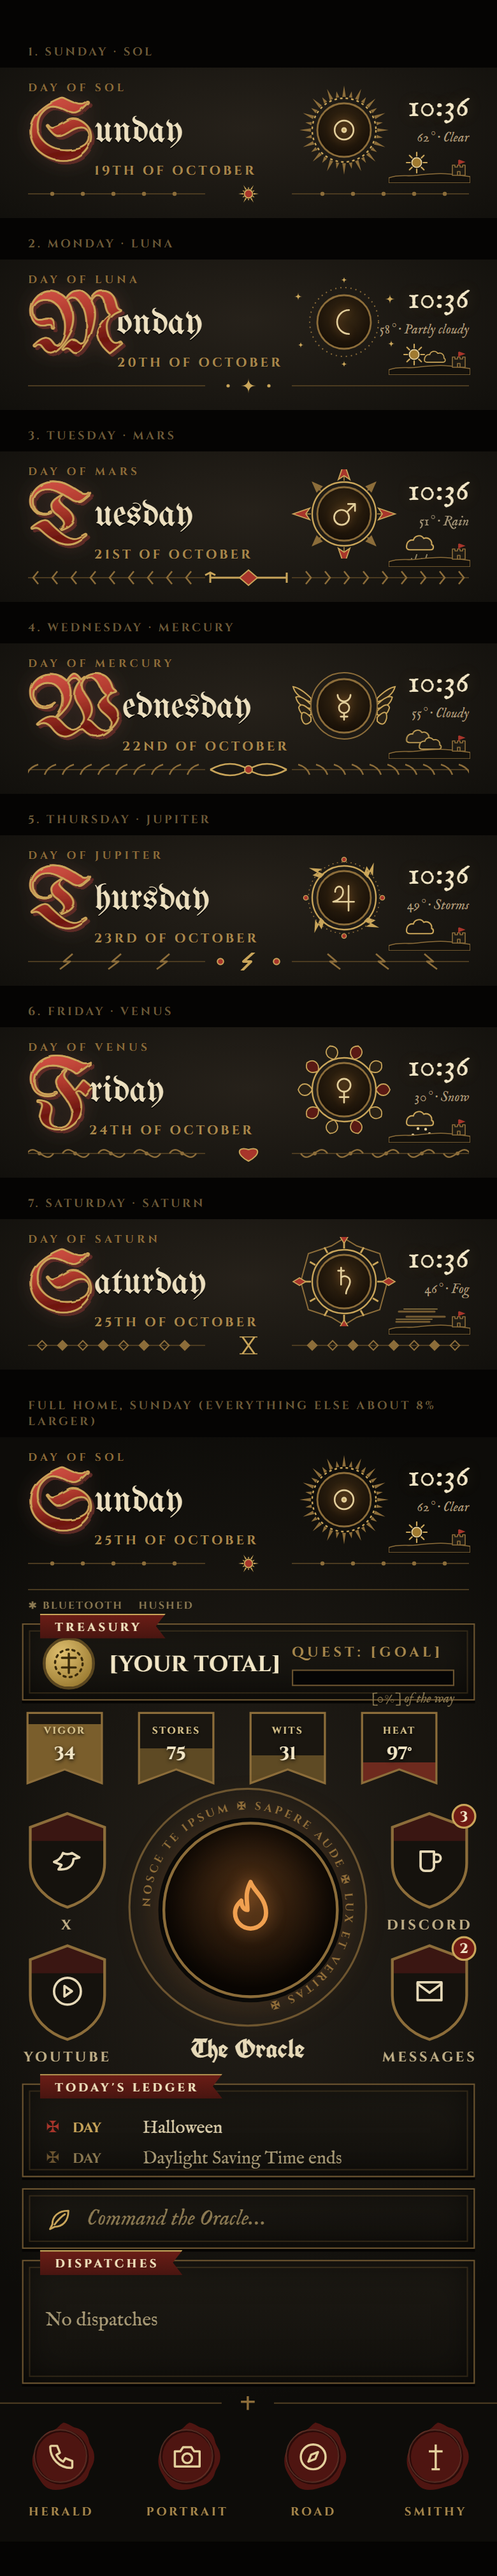
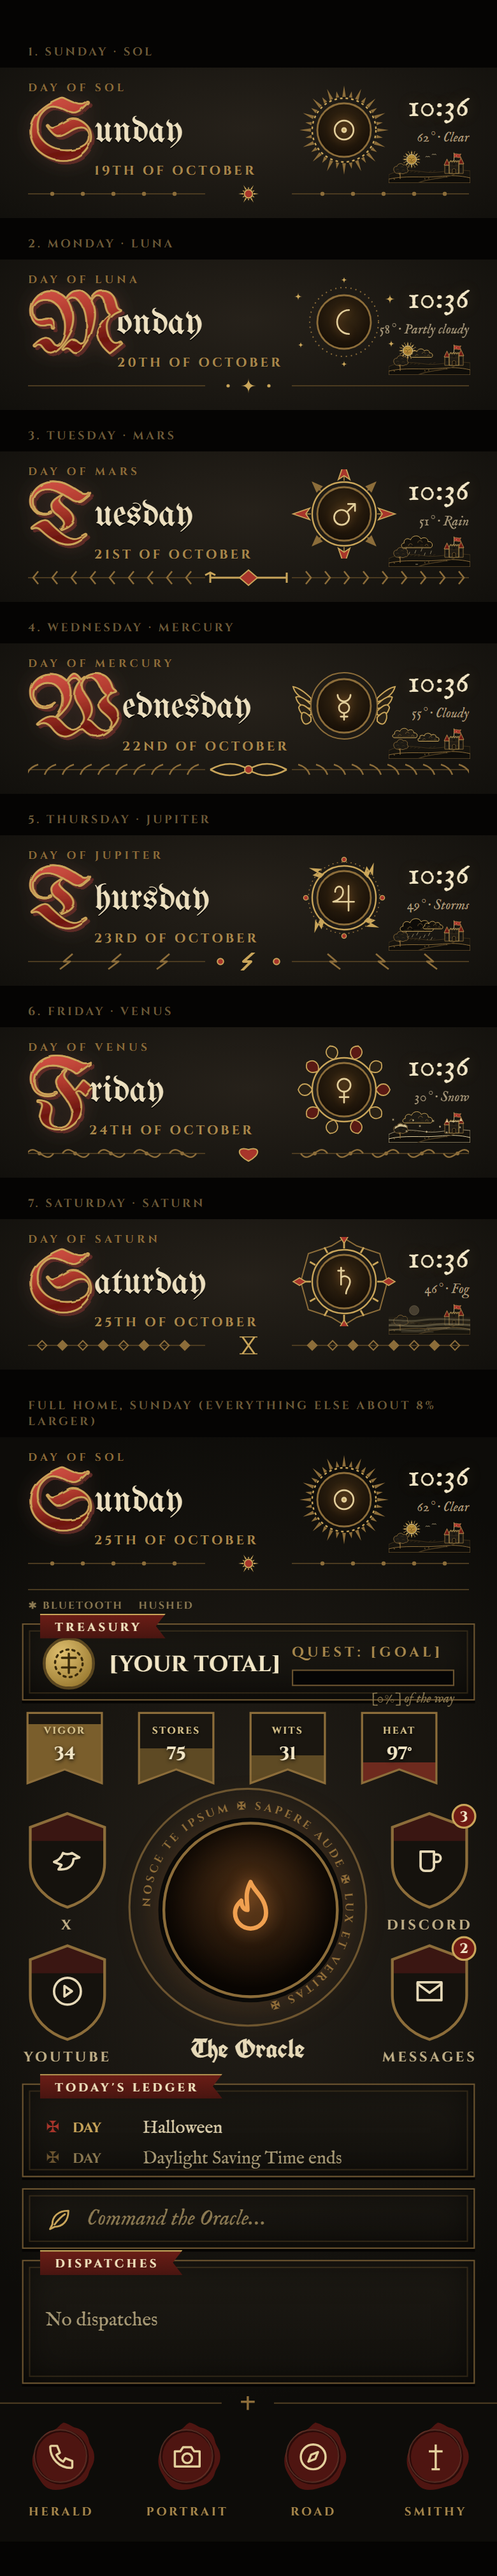
T4-header: detailed woodcut weather dioramas with stop-motion frames

diff --git a/docs/design/T4-weather.js b/docs/design/T4-weather.js
@@ -1,38 +1,114 @@
-/* T4 weather dioramas: 64x26 paper-cutout scenes, stop-motion (stepped) animation. Vector, drawn here. */
+/* T4 weather dioramas: a little woodcut landscape (hills, oak, castle with banner) whose sky shows the weather.
+   Drawn on a 128x52 grid, shown at 64x26 in the header. Stop-motion: every moving part is 2-6 hand-drawn
+   frames swapped in hard steps (no smooth tweening), like paper cut-outs on a table. Vector only. */
 (function(){
-var G='#c9a55a',GD='#8c6d3a',RD='#a8352b',GL='#e3cf9c',DK='#1d1a14';
-var css='.wx .rays,.wx .flake,.wx .tw,.wx .tw2{transform-box:fill-box;transform-origin:center}'+
-'.wx .rays{animation:wxr 1.2s steps(1,end) infinite}@keyframes wxr{0%{transform:rotate(0)}33%{transform:rotate(9deg)}66%{transform:rotate(-7deg)}}'+
-'.wx .drift{animation:wxd 2.4s steps(1,end) infinite}@keyframes wxd{0%{transform:translateX(0)}25%{transform:translateX(2px)}50%{transform:translateX(4px)}75%{transform:translateX(2px)}}'+
-'.wx .drift2{animation:wxd2 2.4s steps(1,end) infinite}@keyframes wxd2{0%{transform:translateX(0)}25%{transform:translateX(-2px)}50%{transform:translateX(-4px)}75%{transform:translateX(-2px)}}'+
-'.wx .fall{animation:wxf .9s steps(1,end) infinite}@keyframes wxf{0%{transform:translateY(0)}33%{transform:translateY(3px)}66%{transform:translateY(6px)}}'+
-'.wx .fall2{animation:wxf .9s steps(1,end) infinite;animation-delay:-.45s}'+
-'.wx .flake{animation:wxs 1.5s steps(1,end) infinite}@keyframes wxs{0%{transform:translate(0,0)}25%{transform:translate(1px,2px)}50%{transform:translate(-1px,4px)}75%{transform:translate(1px,6px)}}'+
-'.wx .flash{animation:wxb 2.4s steps(1,end) infinite}@keyframes wxb{0%{opacity:0}60%{opacity:1}72%{opacity:0}80%{opacity:1}88%{opacity:0}}'+
-'.wx .tw{animation:wxt 1.6s steps(1,end) infinite}@keyframes wxt{0%{opacity:1}50%{opacity:.15}}'+
-'.wx .tw2{animation:wxt 1.6s steps(1,end) infinite;animation-delay:-.8s}'+
-'.wx .fog{animation:wxd 3s steps(1,end) infinite}.wx .fog2{animation:wxd2 3s steps(1,end) infinite}';
-function cloud(x,y,s,fill,cls){return '<g transform="translate('+x+' '+y+')"><g class="'+(cls||'')+'"><path transform="scale('+s+')" d="M0 7C0 4 2 2.6 4 3C4.6 0.4 8.4 -0.6 10 2C12.6 1 15 3 14.6 5.6C16 6 16 8.6 14 8.6H2C.8 8.6 0 8 0 7Z" fill="'+fill+'" stroke="'+G+'" stroke-width=".8" stroke-linejoin="round"/></g></g>'}
-function sun(x,y,cls){var r='';for(var i=0;i<8;i++){r+='<path d="M0 -8V-5.2" stroke="'+G+'" stroke-width="1.1" stroke-linecap="round" transform="rotate('+i*45+')"/>'}
- return '<g transform="translate('+x+' '+y+')"><g class="rays">'+r+'</g><circle r="3.8" fill="#a07a30" stroke="'+GL+'" stroke-width=".9"/></g>'}
-function moon(x,y){return '<path transform="translate('+x+' '+y+')" d="M2 -6A6 6 0 1 0 2 6A4.6 4.6 0 1 1 2 -6Z" fill="'+GL+'" fill-opacity=".9" stroke="'+G+'" stroke-width=".6"/>'}
-function star(x,y,c){return '<path class="'+c+'" transform="translate('+x+' '+y+')" d="M0 -2Q0 0 2 0Q0 0 0 2Q0 0 -2 0Q0 0 0 -2Z" fill="'+G+'"/>'}
-function drops(n,cls){var s='';for(var i=0;i<n;i++){s+='<path class="'+(i%2?'fall':'fall2')+'" d="M'+(18+i*4)+' 13.5l-1 3" stroke="#a89a76" stroke-width="1" stroke-linecap="round" opacity=".85"/>'}return s}
-function flakes(){var s='';[[18,14],[23,15],[28,13.5],[33,15]].forEach(function(p,i){s+='<g class="flake" style="animation-delay:-'+(i*.37)+'s"><circle cx="'+p[0]+'" cy="'+p[1]+'" r="1.1" fill="'+GL+'"/></g>'});return s}
-/* ground + tiny castle silhouette: the setting for every scene */
-var GROUND='<path d="M0 26V22C8 19 14 21 22 20S40 18 48 19L64 21V26Z" fill="#14110c" stroke="'+GD+'" stroke-width=".8"/>'+
- '<path d="M50 20V12H52V13.5H54V12H56V13.5H58V12H60V20Z M54 20V17H56V20Z" fill="#1d1a14" stroke="'+GD+'" stroke-width=".8" stroke-linejoin="round"/><path d="M55 12V8M55 8L59 9.5L55 11" stroke="'+RD+'" stroke-width=".9" fill="'+RD+'"/>';
+var G='#c9a55a',GD='#8c6d3a',GDD='#4a3a20',GL='#e3cf9c',RD='#a8352b',RDD='#6e1a14',INK='#0c0a07',MUTE='#a89a76';
+
+/* frame swapper: frame k is visible during the k-th 1/n of the cycle */
+var css='';[2,3,4,6].forEach(function(n){css+='@keyframes wxf'+n+'{0%{opacity:1}'+(100/n).toFixed(3)+'%,100%{opacity:0}}'});
+function frames(list,dur){var n=list.length,s='';list.forEach(function(f,k){
+ var d=((n-k)%n)*dur/n;s+='<g style="animation:wxf'+n+' '+dur+'s steps(1,end) infinite;animation-delay:-'+d.toFixed(3)+'s">'+f+'</g>'});return s}
+
+/* ---------- landscape ---------- */
+function hills(snow){var e=snow?GL:GD,e2=snow?'#bfb08a':GDD;
+ return '<path d="M0 39C18 30 38 32 58 35S98 29 128 33V52H0Z" fill="#17140e" stroke="'+e2+'" stroke-width=".8"/>'+
+ '<path d="M34 35l3-1.4M40 35.4l3-1.2M46 35.8l3-1M64 34.6l3-1.2M70 33.8l3-1.2" stroke="'+GDD+'" stroke-width=".6" stroke-linecap="round"/>'+
+ '<path d="M0 46C24 40 52 44 76 42S110 40 128 44V52H0Z" fill="#0f0d09" stroke="'+e+'" stroke-width="1"/>'+
+ '<path d="M103 38C98 42 86 43 74 45S52 49 46 52" stroke="'+GDD+'" stroke-width="1.6" stroke-linecap="round"/>'+
+ '<path d="M56 46.5l.8-2 .8 2M62 45.6l.8-2 .8 2M90 43.4l.8-2 .8 2M8 47l.8-2 .8 2" stroke="'+GD+'" stroke-width=".6" stroke-linejoin="round"/>';
+}
+function tree(snow){
+ return '<path d="M18 45V34M18 39l-3-3M18 37l3-2.5" stroke="'+GD+'" stroke-width="1.4" stroke-linecap="round"/>'+
+ '<path d="M9 34C6 30 9 25 13 26C14 21 21 20 23 24C27 22 31 26 29 30C32 32 30 37 26 36C24 38 20 38 18 36C15 38 10 37 9 34Z" fill="#1d1a14" stroke="'+GD+'" stroke-width=".9" stroke-linejoin="round"/>'+
+ '<path d="M12 31q2-2 4 0M19 27q2-2 4 0M21 32q2-2 4 0M14 35q1.5-1.5 3 0" stroke="'+GDD+'" stroke-width=".6" stroke-linecap="round"/>'+
+ (snow?'<path d="M9.5 31C9 27 11.5 25.5 13.5 26.4C14.5 22 20.5 21 22.6 24.6C25.6 22.6 29.6 25.6 28.6 29C25 26.4 22 27.4 18.5 26.4C15 27.2 12 28.6 9.5 31Z" fill="'+GL+'" opacity=".9"/>':'');
+}
+function castle(win,snow){
+ var w=function(x,y){return '<rect x="'+x+'" y="'+y+'" width="1.4" height="3" rx=".7" fill="'+win+'"/>'};
+ return ''+
+ /* side towers with conical oxblood roofs */
+ '<path d="M88 37V24H95V37Z M110 37V22H117V37Z" fill="#1d1a14" stroke="'+GD+'" stroke-width=".9" stroke-linejoin="round"/>'+
+ '<path d="M87 24L91.5 14.5L96 24Z M109 22L113.5 12.5L118 22Z" fill="'+RDD+'" stroke="'+G+'" stroke-width=".8" stroke-linejoin="round"/>'+
+ '<path d="M89.2 21.5L91.5 17M111.2 19.5L113.5 15" stroke="'+RD+'" stroke-width=".6"/>'+
+ /* keep with crenellations */
+ '<path d="M95 37V19H96.6V17H98.6V19H100.4V17H102.4V19H104.2V17H106.2V19H108V17H110V37Z" fill="#221d15" stroke="'+G+'" stroke-width=".9" stroke-linejoin="round"/>'+
+ '<path d="M96 25H109M96 31H109" stroke="'+GDD+'" stroke-width=".5"/>'+
+ '<path d="M100 37V32A2.5 2.5 0 0 1 105 32V37Z" fill="'+INK+'" stroke="'+GD+'" stroke-width=".7"/>'+
+ '<path d="M100.8 33.5H104.2M100.8 35.2H104.2" stroke="'+GDD+'" stroke-width=".4"/>'+
+ w(101.8,21.5)+w(90.8,27)+w(112.8,25.5)+
+ (snow?'<path d="M89.2 20.8L91.5 15.6L93.8 20.8C92.6 19.8 90.4 19.8 89.2 20.8Z M111.2 18.8L113.5 13.6L115.8 18.8C114.6 17.8 112.4 17.8 111.2 18.8Z" fill="'+GL+'"/><path d="M95.3 18.8H110" stroke="'+GL+'" stroke-width="1"/>':'');
+}
+function banner(dur){
+ var pole='<path d="M102.5 17V5.5" stroke="'+GL+'" stroke-width=".8"/><circle cx="102.5" cy="5.2" r=".8" fill="'+G+'"/>';
+ var f=['M102.5 6.5C106 5 109.5 8 113.5 6.5L112 9.3L113.5 12C109.5 13.2 106 10.5 102.5 12Z',
+        'M102.5 6.5C106 8 109.5 5.2 113.5 7.2L111.8 9.6L113.5 12.2C109.5 10.6 106 13 102.5 12Z',
+        'M102.5 6.5C105.5 6 110.5 6.2 113 7.6L111.6 10L112.8 12.6C109.5 11.6 105.5 12.2 102.5 12Z'];
+ return pole+frames(f.map(function(d){return '<path d="'+d+'" fill="'+RD+'" stroke="'+G+'" stroke-width=".6" stroke-linejoin="round"/><path d="M105.5 8.6l1.4 1.4M106.9 8.6l-1.4 1.4" stroke="'+GL+'" stroke-width=".5"/>'}),dur||0.9);
+}
+function land(o){o=o||{};return hills(o.snow)+tree(o.snow)+castle(o.win||INK,o.snow)+banner(o.flag)}
+
+/* ---------- sky pieces ---------- */
+function sun(x,y,faint){
+ if(faint)return '<circle cx="'+x+'" cy="'+y+'" r="7.5" fill="'+GL+'" opacity=".22"/><circle cx="'+x+'" cy="'+y+'" r="7.5" stroke="'+GL+'" stroke-width=".6" opacity=".35"/>';
+ function rays(rot,sc){var s='';for(var i=0;i<16;i++){s+='<g transform="rotate('+(i*22.5+rot)+') scale('+sc+')">'+(i%2?
+   '<path d="M0 -8.6Q1.3 -10 0 -11.2Q-1.3 -12.4 0 -13.4" stroke="'+G+'" stroke-width=".8" stroke-linecap="round"/>':
+   '<path d="M-1.4 -8.6L0 -14.2L1.4 -8.6Z" fill="'+G+'"/>')+'</g>'}return s}
+ return '<g transform="translate('+x+' '+y+')">'+frames([rays(0,1),rays(4,1.05),rays(8,.97)],1.2)+
+ '<circle r="7.6" fill="#b8913c" stroke="'+GL+'" stroke-width="1"/><circle r="6.1" stroke="#8a6a22" stroke-width=".5"/>'+
+ '<path d="M-3.6 -1.4q1.1-1.1 2.2 0M1.4 -1.4q1.1-1.1 2.2 0M0 -.8V1.6H-.9M-2.4 3.1Q0 4.9 2.4 3.1" stroke="#4a2e0c" stroke-width=".7" stroke-linecap="round" stroke-linejoin="round"/>'+
+ '<circle cx="-3.6" cy="2" r=".9" fill="'+RD+'" opacity=".55"/><circle cx="3.6" cy="2" r=".9" fill="'+RD+'" opacity=".55"/></g>';
+}
+function moon(x,y){
+ return '<g transform="translate('+x+' '+y+')"><path d="M3 -8.5A8.5 8.5 0 1 0 3 8.5A10 10 0 0 1 3 -8.5Z" fill="'+GL+'" stroke="'+G+'" stroke-width=".8"/>'+
+ '<path d="M-5.2 -2.2q1.3 1 2.6 0M-3.4 2.6q-1 1.2-2.4 1" stroke="'+GD+'" stroke-width=".7" stroke-linecap="round"/>'+
+ '</g>';
+}
+function star(x,y,r){return '<path transform="translate('+x+' '+y+')" d="M0 -'+r+'Q0 0 '+r+' 0Q0 0 0 '+r+'Q0 0 -'+r+' 0Q0 0 0 -'+r+'Z" fill="'+GL+'"/>'}
+function cloud(x,y,s,fill,shade){
+ return '<g transform="translate('+x+' '+y+') scale('+s+')">'+
+ '<path d="M3 16C-1 16 -1 10.4 3.4 10.2C2.4 5 8.4 3 11.4 6.2C13.4 0 22.4 -.4 24.4 5C27.6 2 33.6 3.4 33.4 8.4C38.6 7.6 40.6 13.4 37 16Z" fill="'+fill+'" stroke="'+G+'" stroke-width="'+(1/s).toFixed(2)+'" stroke-linejoin="round"/>'+
+ '<path d="M9 13.4C9 10.4 13 10 13.6 12.4M20.6 9.6C20.4 6.4 25.6 6 26 9M29.6 13.4C30 11 33.6 11.2 33.4 13.4" stroke="'+GD+'" stroke-width="'+(.7/s).toFixed(2)+'" stroke-linecap="round"/>'+
+ (shade?'<path d="M5 14.6H13M16 14.6H28M30 14.6H35M8 12.6H10M24 12.6H27" stroke="'+GDD+'" stroke-width="'+(.6/s).toFixed(2)+'" stroke-linecap="round"/>':'')+'</g>';
+}
+function drifting(fn,dx,dur){return frames([0,dx/2,dx,dx/2].map(function(o){return '<g transform="translate('+o+' 0)">'+fn()+'</g>'}),dur)}
+function birds(){var f=[];for(var k=0;k<4;k++){var up=k%2==0,x=k*1.6;
+ var b=function(bx,by){return up?'<path d="M'+bx+' '+by+'q1.6-1.8 3.2 0q1.6-1.8 3.2 0" stroke="'+GL+'" stroke-width=".7" stroke-linecap="round"/>':
+  '<path d="M'+bx+' '+(by-1)+'q1.6 1.6 3.2 1q1.6.6 3.2-1" stroke="'+GL+'" stroke-width=".7" stroke-linecap="round"/>'};
+ f.push(b(58+x,11)+b(68+x,7.5))}return frames(f,1.6)}
+function rain(n,slant,top,bot){var f=[];for(var k=0;k<3;k++){var s='';for(var j=0;j<n;j++){
+ var x=28+j*(44/n)+k*1.4,y=top+((j*7+k*5)%(bot-top-5));
+ s+='<path d="M'+x.toFixed(1)+' '+y+'l'+slant+' 4.5" stroke="'+MUTE+'" stroke-width=".8" stroke-linecap="round"/>'}f.push(s)}return frames(f,.6)}
+function ripples(){return frames(['<ellipse cx="44" cy="48" rx="2" ry=".6" stroke="'+MUTE+'" stroke-width=".5"/>',
+ '<ellipse cx="60" cy="46.6" rx="2" ry=".6" stroke="'+MUTE+'" stroke-width=".5"/><ellipse cx="44" cy="48" rx="3.2" ry=".9" stroke="'+MUTE+'" stroke-width=".4" opacity=".6"/>',
+ '<ellipse cx="34" cy="48.6" rx="2" ry=".6" stroke="'+MUTE+'" stroke-width=".5"/><ellipse cx="60" cy="46.6" rx="3.2" ry=".9" stroke="'+MUTE+'" stroke-width=".4" opacity=".6"/>'],.9)}
+function snowfall(){var f=[];for(var k=0;k<4;k++){var s='';for(var j=0;j<11;j++){
+ var x=8+j*10.5+((j*3+k)%3)-1,y=16+((j*9+k*4)%26);
+ s+='<path transform="translate('+x+' '+y+')" d="M0 -1.4V1.4M-1.2 -.7L1.2 .7M-1.2 .7L1.2 -.7" stroke="'+GL+'" stroke-width=".55" stroke-linecap="round"/>'}f.push(s)}return frames(f,1.6)}
+function fog(){var f=[];for(var k=0;k<3;k++){var o=k*3;f.push(
+ '<path d="M'+(-12+o)+' 30C8 27 28 33 48 30S88 27 140 30" stroke="'+MUTE+'" stroke-width="3.2" stroke-linecap="round" opacity=".32"/>'+
+ '<path d="M'+(-6-o)+' 38C14 35 36 41 58 38S100 35 140 38" stroke="'+MUTE+'" stroke-width="3.6" stroke-linecap="round" opacity=".38"/>'+
+ '<path d="M'+(-10+o)+' 45C10 42 34 48 56 45S98 42 140 45" stroke="'+MUTE+'" stroke-width="3" stroke-linecap="round" opacity=".3"/>'+
+ '<path d="M'+(4+o)+' 34H40M'+(60-o)+' 41H96M'+(20+o)+' 48H70" stroke="'+GL+'" stroke-width=".6" stroke-linecap="round" opacity=".45"/>')}
+ return '<rect y="24" width="128" height="28" fill="#2a2418" opacity=".35"/>'+frames(f,1.8)}
+function bolt(){return '<path d="M52 20L46 30.5H51L44.5 42L57 27.5H52L56.5 20Z" fill="'+RD+'" stroke="'+GL+'" stroke-width=".8" stroke-linejoin="round"/>'}
+
 var SCENE={
- clear:function(){return sun(22,10)},
- clearnight:function(){return moon(22,10)+star(34,6,'tw')+star(12,7,'tw2')+star(40,13,'tw')+star(8,15,'tw')},
- partly:function(){return sun(20,10)+cloud(24,7,1.05,DK,'drift')},
- cloudy:function(){return cloud(10,3,1.2,'#26211a','drift')+cloud(28,9,1.1,DK,'drift2')},
- rain:function(){return cloud(14,1,1.35,'#26211a')+drops(5)},
- storm:function(){return cloud(14,1,1.35,'#1a1612')+'<path class="flash" d="M25 11L21 16H24L22 22L28 15H25L27 11Z" fill="'+RD+'" stroke="'+G+'" stroke-width=".7" stroke-linejoin="round"/>'},
- snow:function(){return cloud(14,1,1.35,'#26211a')+flakes()},
- fog:function(){return '<path class="fog" d="M6 8H34M12 12H42M4 16H30" stroke="'+GD+'" stroke-width="1.6" stroke-linecap="round" opacity=".8"/><path class="fog2" d="M14 6H40M8 14H36" stroke="'+G+'" stroke-width="1" stroke-linecap="round" opacity=".55"/>'}
+ clear:function(){return sun(36,15)+birds()+land()},
+ clearnight:function(){
+  var tw=frames([star(12,8,1.8)+star(52,6,1.2)+star(70,14,1.6)+star(24,22,1),star(12,8,1)+star(52,6,2)+star(70,14,1)+star(24,22,1.6)],1.4);
+  return moon(36,15)+tw+star(80,5,.9)+star(62,20,.8)+land({win:'#e58a3c'})+
+   frames(['<rect x="101.8" y="21.5" width="1.4" height="3" rx=".7" fill="#ffc070"/>',''],1.2);},
+ partly:function(){return sun(30,14)+drifting(function(){return cloud(34,10,.9,'#1d1a14',true)},4,2.4)+land()},
+ cloudy:function(){return drifting(function(){return cloud(6,3,1,'#221d15',true)},4,2.8)+
+  frames([-0,-2,-4,-2].map(function(o){return '<g transform="translate('+o+' 0)">'+cloud(46,11,.85,'#1d1a14',true)+'</g>'}),2.8)+land()},
+ rain:function(){return cloud(20,2,1.25,'#14110c',true)+rain(9,-1.6,22,44)+land()+ripples()},
+ storm:function(){return frames(['','','<rect width="128" height="40" fill="'+GL+'" opacity=".09"/>','','',''],2.4)+
+  cloud(18,0,1.35,'#0d0b08',true)+cloud(54,5,.8,'#14110c',true)+rain(12,-2.4,22,44)+
+  frames(['','',bolt(),'',bolt(),''],2.4)+land({flag:.45})},
+ snow:function(){return cloud(22,2,1.2,'#1d1a14',true)+land({snow:true})+snowfall()},
+ fog:function(){return sun(40,14,true)+land()+fog()}
 };
 window.WX={css:css,names:Object.keys(SCENE),svg:function(k,w,h){
- return '<svg class="wx" width="'+(w||64)+'" height="'+(h||26)+'" viewBox="0 0 64 26" fill="none" aria-hidden="true">'+SCENE[k]()+GROUND+'</svg>'}};
+ return '<svg class="wx" width="'+(w||64)+'" height="'+(h||26)+'" viewBox="0 0 128 52" fill="none" aria-hidden="true">'+SCENE[k]()+'</svg>'}};
 var st=document.createElement('style');st.textContent=css;document.head.appendChild(st);
 })();

diff --git a/docs/design/T4-weather.html b/docs/design/T4-weather.html
@@ -1,11 +1,23 @@
 <!doctype html><html><head><meta charset="utf-8"><title>T4 weather scenes</title>
 <style>
 @font-face{font-family:Cinzel;src:url("../../app/ui/src/main/res/font/cinzel_variable.ttf");font-weight:400 900}
+@font-face{font-family:"IM Fell English";src:url("../../app/ui/src/main/res/font/imfellenglish_italic.ttf");font-style:italic}
 body{margin:0;width:390px;background:#0d0c09;color:#a8884c;font-family:Cinzel,serif}
-.g{display:grid;grid-template-columns:1fr 1fr;gap:10px 14px;padding:16px 22px}
-.c{background:linear-gradient(#1d1a14,#12100c);border:1px solid #6b5430;padding:8px 6px 6px;text-align:center;font-size:9px;font-weight:700;letter-spacing:.2em;text-transform:uppercase}
-.c svg{display:block;margin:0 auto 4px}
-</style></head><body><div class="g" id="g"></div>
+.c{margin:12px 16px;background:radial-gradient(90% 120% at 50% 40%,#26211a 0%,#0d0c09 90%);border:1px solid #6b5430;padding:10px 10px 8px}
+.t{font-size:10px;font-weight:700;letter-spacing:.22em;text-transform:uppercase;margin-bottom:6px}
+.t i{font-family:'IM Fell English',serif;font-weight:400;letter-spacing:0;text-transform:none;color:#8c7a52;float:right}
+.f{display:flex;justify-content:space-between;margin-top:6px}
+.f div{font-size:7.5px;letter-spacing:.2em;color:#6b5a38;text-align:center}
+.f svg{display:block;border:1px solid #2a2418}
+</style></head><body><div id="g"></div>
 <script src="T4-weather.js"></script>
-<script>var L={clear:'Clear',clearnight:'Clear night',partly:'Partly cloudy',cloudy:'Cloudy',rain:'Rain',storm:'Thunderstorm',snow:'Snow',fog:'Fog'},h='';
-WX.names.forEach(function(k){h+='<div class="c">'+WX.svg(k,160,65)+L[k]+'</div>'});document.getElementById('g').innerHTML=h;</script></body></html>
+<script>
+var L={clear:'Clear day',clearnight:'Clear night',partly:'Partly cloudy',cloudy:'Cloudy',rain:'Rain',storm:'Thunderstorm',snow:'Snow',fog:'Fog'},h='';
+var STILL=[0,300,600,900];
+WX.names.forEach(function(k){h+='<div class="c"><div class="t">'+L[k]+'<i>moving · and its frames below</i></div>'+WX.svg(k,346,140)+'<div class="f">';
+ STILL.forEach(function(t,i){h+='<div><span class="still" data-t="'+t+'">'+WX.svg(k,82,33)+'</span>frame '+(i+1)+'</div>'});h+='</div></div>'});
+document.getElementById('g').innerHTML=h;
+/* freeze the small copies at fixed moments so a screenshot shows the stop-motion frames */
+document.querySelectorAll('.still').forEach(function(el){var t=+el.dataset.t;
+ el.getAnimations({subtree:true}).forEach(function(a){a.pause();a.currentTime=t})});
+</script></body></html>
